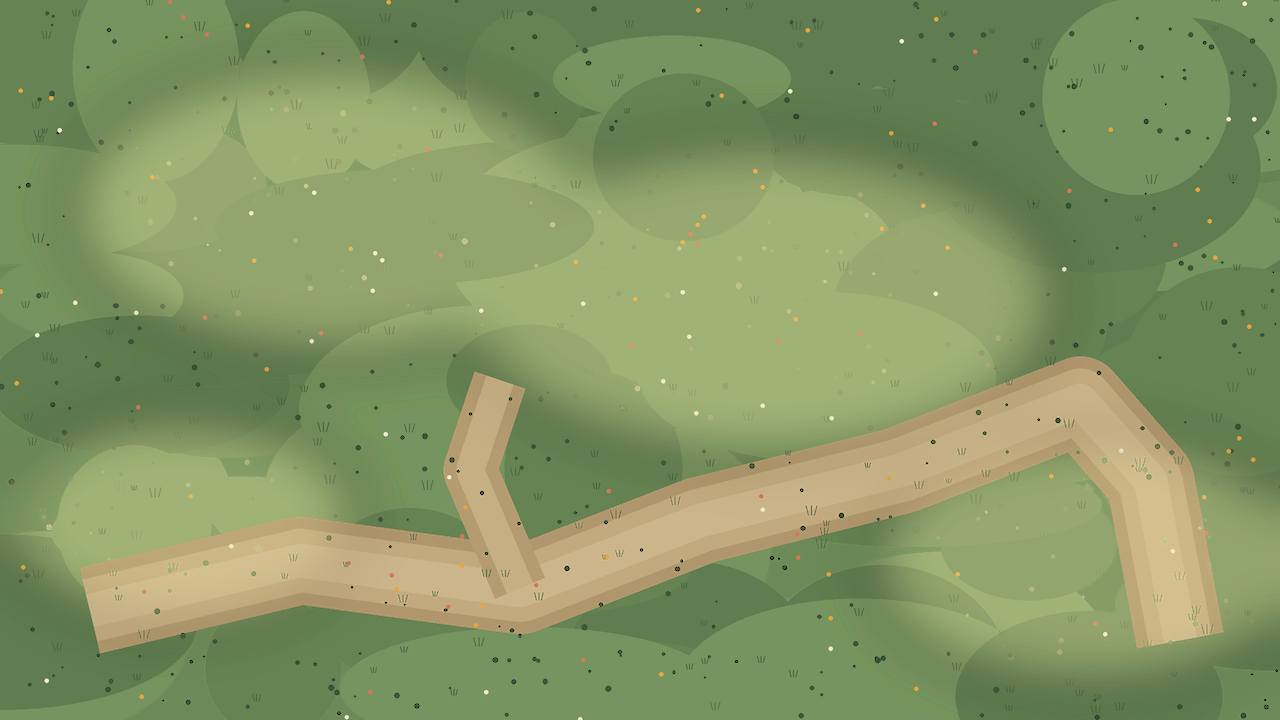
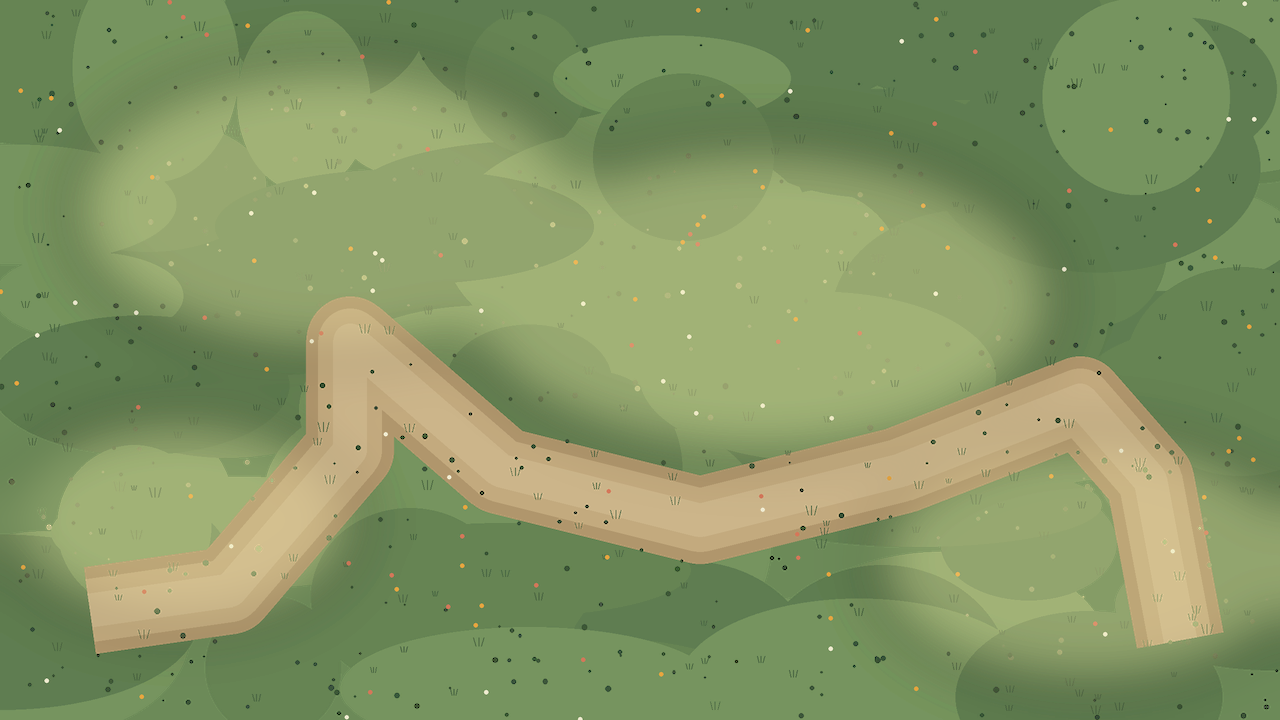
1번 맵 흙길을 텐트 입구까지 연결해 표시

Changed region(s): [[0.0938, 0.3972, 0.5625, 0.8861], [0.0938, 0.8556, 0.2188, 0.9167]]

diff --git a/Project/pico_heist/make_assets.py b/Project/pico_heist/make_assets.py
@@ -129,17 +129,11 @@ def bg_forest():
         rx, ry = rnd.uniform(60, 200) * ss, rnd.uniform(40, 120) * ss
         col = rnd.choice([(96, 126, 80), (118, 148, 94), (102, 132, 84)])
         d.ellipse([cx - rx, cy - ry, cx + rx, cy + ry], fill=col + (110,))
-    # 흙길 — 기존 길을 유지하되 끝을 오른쪽 아래 출구 게이트까지 이어서
-    # 2·3번 맵의 같은 흙길로 자연스럽게 넘어가게 한다.
-    path = [(90, 610), (300, 560), (520, 590), (700, 520), (900, 470),
-            (1080, 400), (1150, 480), (1180, 640)]
+    # 흙길 — 왼쪽 시작점에서 텐트 입구(350, 340)까지 올라갔다가
+    # 오른쪽 아래 출구 게이트로 이어진다. 2·3번 맵의 같은 흙길과 연결된다.
+    path = [(90, 610), (230, 590), (350, 450), (350, 340), (500, 470),
+            (700, 520), (900, 470), (1080, 400), (1150, 480), (1180, 640)]
     dirt_road(d, path, ss)
-    # 작은 갈림길
-    side = [(520, 588), (470, 470), (500, 380)]
-    d.line([(x * ss, y * ss) for (x, y) in side], fill=(180, 155, 112, 255),
-           width=54 * ss, joint="curve")
-    d.line([(x * ss, y * ss) for (x, y) in side], fill=(199, 175, 132, 255),
-           width=28 * ss, joint="curve")
     # 잔디/풀/꽃
     grass_tufts(im, (74, 102, 66), 220, ss)
     grain(im, (60, 88, 56), 500, size=(1, 3), alpha=(20, 60), ss=ss)

diff --git a/Project/pico_heist/maps.py b/Project/pico_heist/maps.py
@@ -27,7 +27,7 @@ MAPS = [
             ("prop_tree", 1150, 400, 1.00),
             ("prop_pine", 960, 690, 0.95),
             ("prop_bush", 180, 470, 1.00),   # 흙길 위를 피해 왼쪽 풀밭으로
-            ("prop_bush", 390, 470, 1.00),
+            ("prop_bush", 430, 620, 1.00),   # 텐트로 오르는 흙길을 비워 준다
             ("prop_bush", 520, 200, 1.00),   # 갈림길 끝에서 떨어진 위쪽
             ("prop_bush", 660, 230, 0.95),
             ("prop_bush", 760, 660, 1.00),
@@ -55,11 +55,13 @@ MAPS = [
              "speed": 48, "wait": 0.6},
         ],
         # 진짜 음식을 먹으면 출구가 열린다 — 피코가 길을 따라 걸어가야 다음 맵으로 간다.
+        # 흙길은 텐트 입구(318~382, 300~348)까지 올라갔다가 오른쪽 게이트로 이어진다.
         "exit": {
             "rect": (1130, 600, 1230, 680),
             "gate": (1180, 640),
-            "path": [(90, 610), (300, 560), (520, 590), (700, 520),
-                     (900, 470), (1080, 400), (1150, 480), (1180, 640)],
+            "path": [(90, 610), (230, 590), (350, 450), (350, 340),
+                     (500, 470), (700, 520), (900, 470), (1080, 400),
+                     (1150, 480), (1180, 640)],
         },
         "tent": {
             "name": "텐트 안",

diff --git a/Project/pico_heist/README.md b/Project/pico_heist/README.md
@@ -58,7 +58,7 @@ python main.py
 | 2 | 호숫가 캠핑장 | 해 질 녘 | 옥수수 · 샌드위치 · 빵 · 달걀 + **생선(낚시)** | 3명 (순찰 2, 호숫가 낚시 1) | 5 |
 | 3 | 야간 축제 캠핑장 | 밤 | 치킨 · 케이크 · 소다 · 베리 + 수프(조리 부스) | 5명 (순찰 3, 감시 1, 배회 1) + 요리사 1명 | 6 |
 
-- **1번 맵에만 텐트 안** 서브 맵이 있다. 텐트 앞 출입구(반짝이는 표시)에서 **E**로 들어가고, 안쪽 출입구에서 다시 **E**로 나온다. 2번 맵의 텐트는 장식이다.
+- **1번 맵에만 텐트 안** 서브 맵이 있다. 갈색 흙길이 왼쪽 시작점에서 **텐트 출입구 `(350,340)`까지 올라가고**, 다시 오른쪽 게이트로 이어진다. 텐트 앞 출입구(반짝이는 표시)에서 **E**로 들어가고, 안쪽 출입구에서 다시 **E**로 나온다. 2번 맵의 텐트는 장식이다.
 - **3번 맵에만 무대 뒤 조리 부스** 서브 맵이 있다. 주황 부스 앞에서 **E**로 들어가고, 안쪽 출입구에서 다시 **E**로 나온다. 진짜 음식 수프가 이 안에 있다.
 - 2번 맵에는 **부두 위에 서 있는 사람이 없다.** 대신 호숫가 언덕에 **앉아서 낚시하는 캠핑객**이 물을 바라보며 앉아 있다(낚싯줄과 물결 연출 포함).
 - 텐트 안에는 **자는 사람**이 있다. 시야는 없지만 **가까이 가면 감지도가 빠르게 오른다** (예전보다 조금 완만하게 조정).
